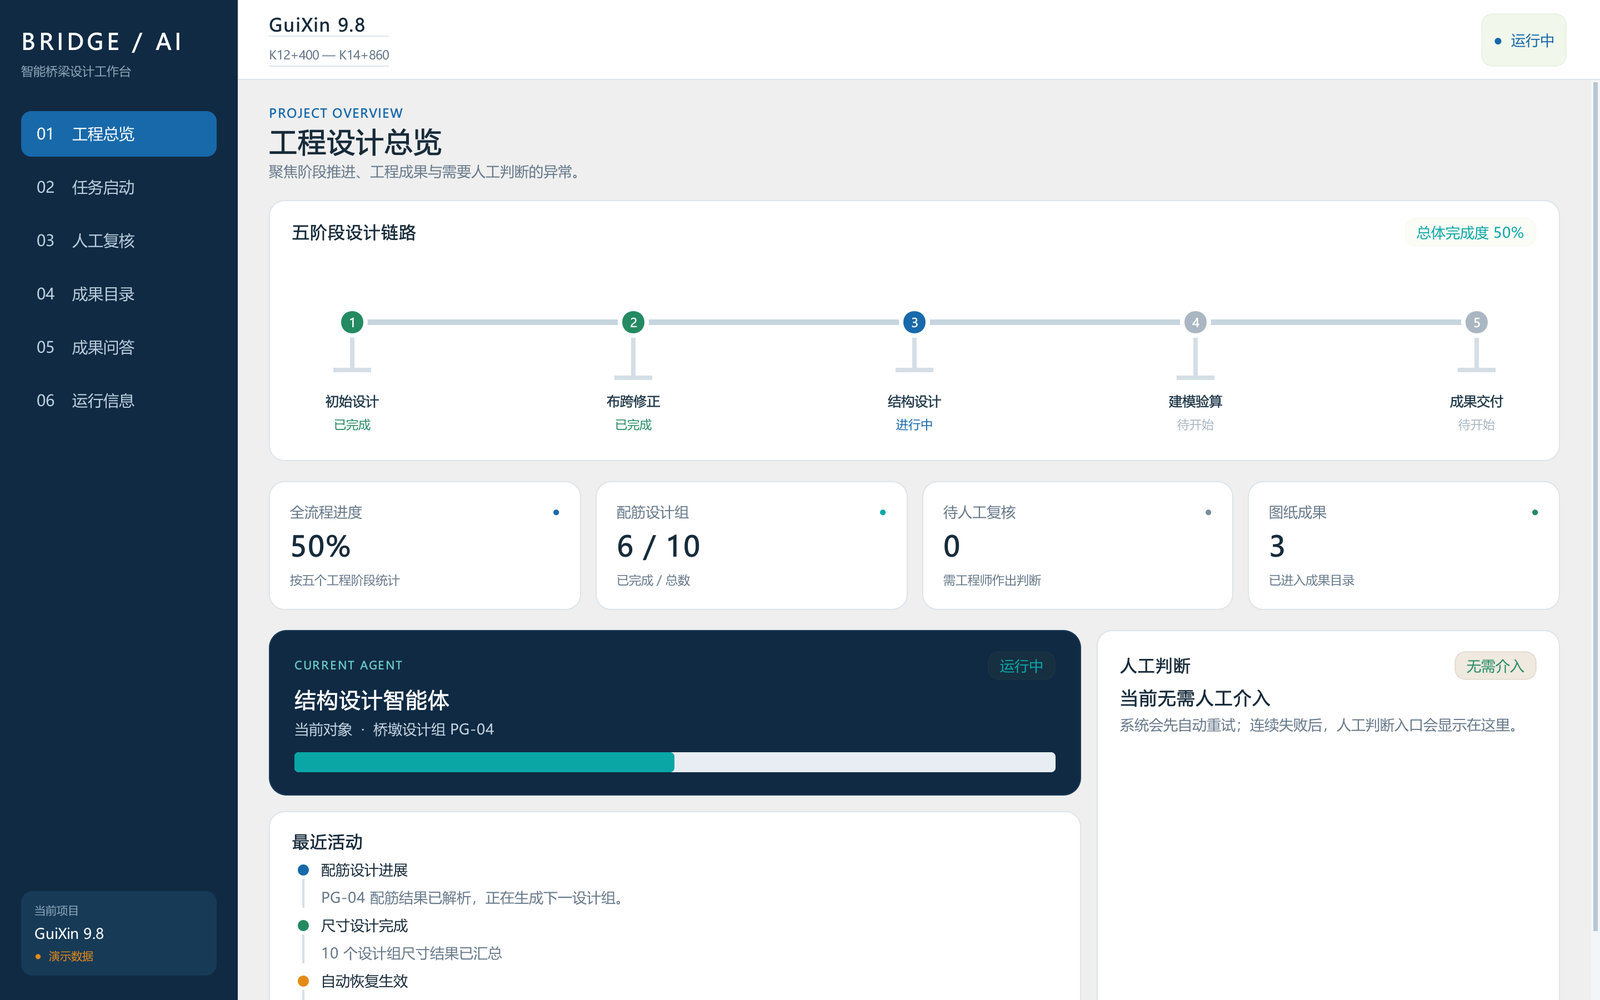
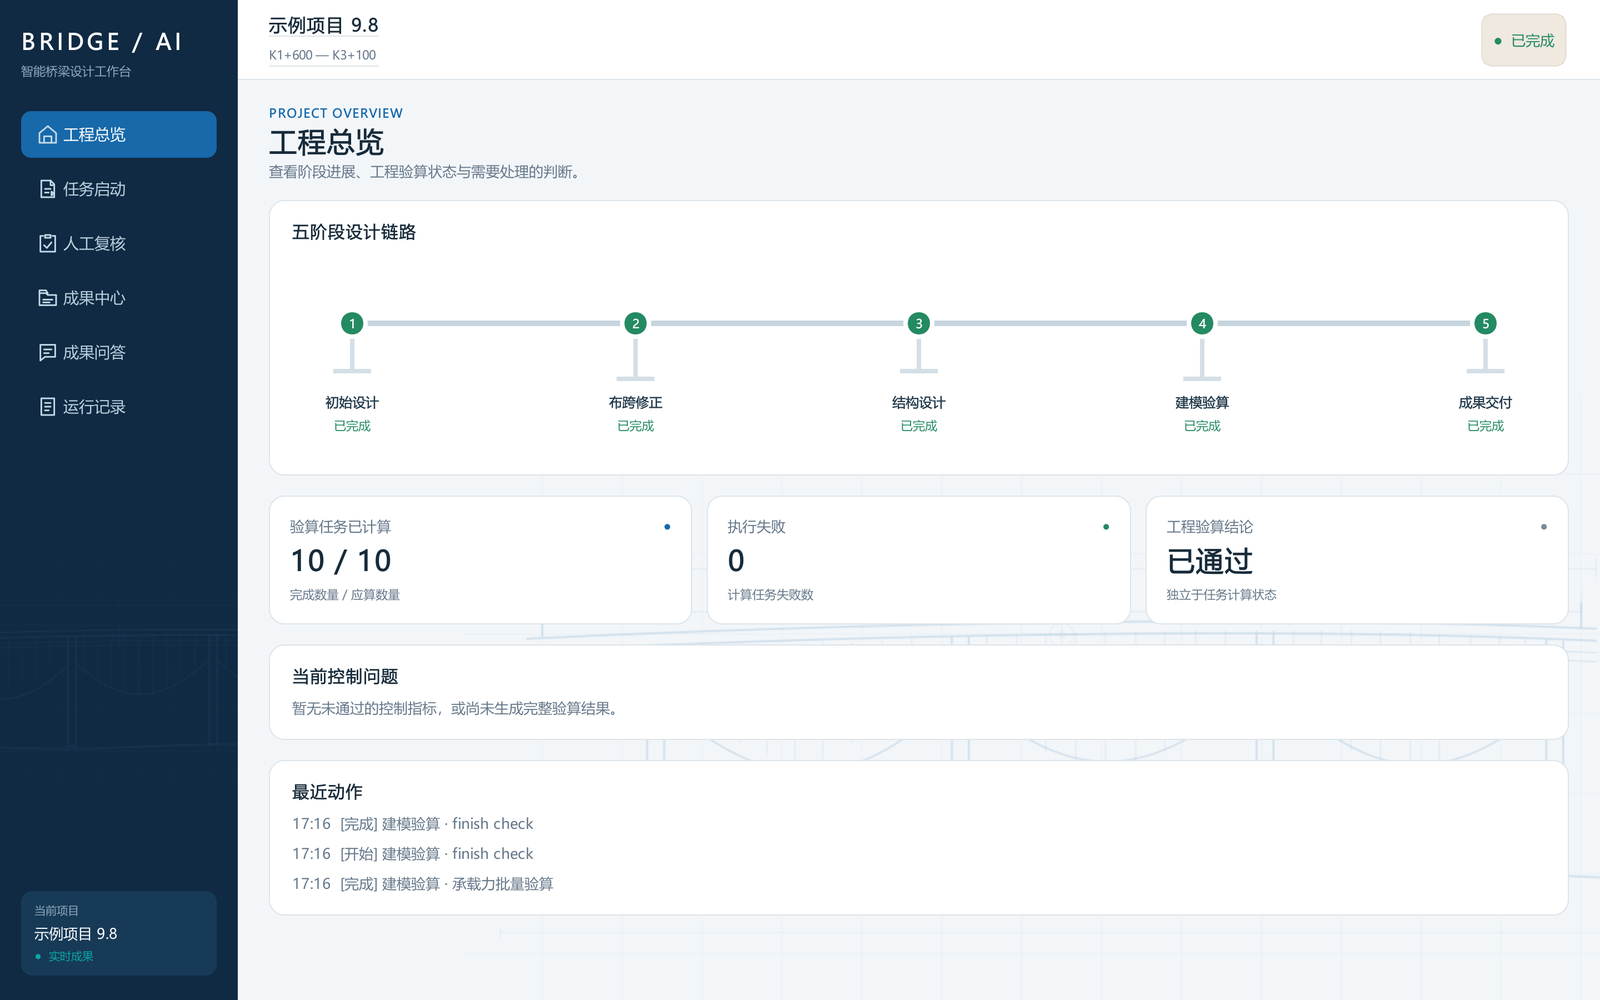
docs: refresh workbench screenshots and add flow/function diagrams

diff --git a/README.md b/README.md
@@ -8,7 +8,7 @@
   <img src="assets/gui/screenshots/01-overview.png" alt="Bridge AI Studio 现代工作台 · 工程总览" width="100%">
 </p>
 
-配套可视化操作界面 `run_graph_v2_gui_modern.py`（PySide6）：工程总览、任务启动、人工复核、成果目录、设计问答与运行信息六页工作台，见 [§11 运行方式](#11-运行方式)。
+配套桥梁设计工作台 `run_bridge_design_workbench.py`（PySide6）：工程总览、任务启动、人工复核、成果中心、成果问答、运行记录六个功能模块，见 [§11 运行方式](#11-运行方式)。
 
 当前推荐运行目标架构：
 
@@ -84,6 +84,10 @@ AgentState reducer + AgentContract + ArtifactRecord
   -> final_output 确定性生成按设计组复用的配筋绘图成果包
   -> DesignReviewAgent 整体评估与后续专业问答（独立只读链）
 ```
+
+上图对应的显式协调图运行流程：
+
+![Graph V2 运行流程](assets/diagrams/graph-v2-flow.png)
 
 调度校验检查阶段注册、前置成果、成果有效性、返修目标、轮次上限、人工复核状态和无依据阶段回跳。每个阶段结束后，协调器读取最新 `StageHandoff` 再决策，专业 Agent 不直接控制顶层路由。
 
@@ -739,47 +743,79 @@ Windows 用户可以通过独立桌面窗口完成任务配置、Graph V2 启动
 
 `run_graph_v2_gui_modern.py` 是推荐的现代桌面入口。它复用 `GraphV2Controller` 和统一成果目录服务，提供工程总览、任务输入与启动、安全终止、断点恢复、人工复核、成果预览、整体评估和多轮专业问答。旧 Tkinter 控制台继续保留，用于兼容和对照。
 
+#### 桥梁设计工作台（Figma v1 对应入口）
+
+`run_bridge_design_workbench.py` 将 Figma 工作台原型 v1 的六个使用者模块落实为桌面界面：工程总览、任务启动、人工复核、成果中心、成果问答、运行记录。人工复核另有风险确认、证据缺失和继续返修三个流程状态。界面沿用现有 Graph V2 控制器、成果目录和问答服务；真实模式只展示当前输出目录可核实的验算与人工决策数据。
+
+```powershell
+python run_bridge_design_workbench.py --output-dir output
+```
+
+启动页默认为任务启动。已有输出目录可用 `--page overview`、`--page results` 或 `--page log` 直接打开对应模块。风险接受入口需要完整承载力验算摘要和两项人工确认；计算完成数量与工程验算结论分开展示。`--screenshot <PNG路径>` 可导出当前页面截图。
+
+#### 功能结构
+
+工作台不按页面堆叠，而按工程判断的组织方式划分六个功能模块，每个节点对应一项可执行能力：
+
+![工作台功能结构图](assets/diagrams/workbench-functions.png)
+
 #### 可视化操作界面演示
 
-控制台按工程视角组织工作流，覆盖从任务输入、阶段推进、人工干预到成果交付与设计问答的完整闭环。以下演示由 `run_graph_v2_gui_modern.py` 逐页导出。
+六个模块的界面与人工复核闭环如下。演示取自一次真实运行成果；项目名与桩号已替换为通用值，“人工复核”一页的复核中断为演示态构造。
 
 **① 工程总览 · Project Overview**
 
-五阶段设计链路一屏总览：初始设计 → 布跨修正 → 结构设计 → 建模验算 → 成果交付的实时完成度、当前活跃智能体、待人工判断数量，以及最近的动作事件流。
+五阶段设计链路的完成度、工程验算状态、当前控制问题与最近阶段动作。
 
 ![工程总览](assets/gui/screenshots/01-overview.png)
 
-**② 任务启动 · New Design Run**
+**② 任务启动 · Start a Run**
 
-面向工程师的极简输入面：只需填写任务描述与原始资料路径，中间成果全部由输出目录自动发现与复用，不必在多级配置之间来回切换。
+填写原始输入、启动前校验、授权模型外发，并可直接安全终止运行中的任务。
 
 ![任务启动](assets/gui/screenshots/02-task.png)
 
-**③ 人工复核中心 · Human in the Loop**
+**③ 人工复核 · Human in the Loop**
 
-自动重试耗尽后由系统主动停驻，把失败对象、运行上下文和候选处置动作一并交给工程师，支持定向重试、带风险接受或终止任务。
+呈现复核原因、轮次与返修方向，并把控制指标与判断依据逐项列出；右侧只显示当前复核节点允许的动作。
 
-![人工复核中心](assets/gui/screenshots/03-review.png)
+![人工复核](assets/gui/screenshots/03-review.png)
 
-**④ 成果目录 · Deliverables**
+**④ 决策确认 · Decision Checkpoint**
 
-按五个工程阶段汇集全部成果，图件在控制台内直接预览并支持缩放平移，数据类成果附带来源路径与诊断摘要，无需切换到资源管理器。
+接受风险前必须核对未通过结论与控制对象，并完成两项人工确认，未通过项仍保留在交付成果中。
 
-![成果目录](assets/gui/screenshots/04-results.png)
+![决策确认](assets/gui/screenshots/04-confirm.png)
 
-**⑤ 成果问答 · Design Review**
+**⑤ 证据阻断 · Blocked Action**
 
-基于工程成果与规范条文证据的多轮专业问答，每条回答显式标注所引用的成果编号与规范公式编号，结论可追溯、可核验。
+承载力证据不完整时，接受风险的动作被直接阻断，只保留继续返修与返回复核。
 
-![成果问答](assets/gui/screenshots/05-qa.png)
+![证据阻断](assets/gui/screenshots/05-missing.png)
 
-**⑥ 运行信息 · Run Information**
+**⑥ 继续返修 · Resume the Design**
 
-当前任务的公开运行摘要；论文展示模式下自动隐去本地敏感路径。
+提交继续返修后展示决策记录、返回阶段、追加轮次与后续路径。
 
-![运行信息](assets/gui/screenshots/06-info.png)
+![继续返修](assets/gui/screenshots/06-rework.png)
 
-> 演示界面使用控制台内置的样例数据（界面左下角已标注）；「成果目录」一页取自一次真实运行，预览内容为系统确定性计算生成的承载力验算成果。
+**⑦ 成果中心 · Deliverables**
+
+按阶段汇集工程成果，图件在窗口内直接预览，并给出交付风险状态。
+
+![成果中心](assets/gui/screenshots/07-results.png)
+
+**⑧ 成果问答 · Design Review**
+
+基于工程成果与规范条文证据的多轮专业问答，每条回答显式标注所引用的成果编号与规范公式编号。
+
+![成果问答](assets/gui/screenshots/08-qa.png)
+
+**⑨ 运行记录 · Run Trace**
+
+汇总本次运行身份、阶段动作与人工复核决定，可一键跳转到成果与风险。
+
+![运行记录](assets/gui/screenshots/09-log.png)
 
 
 读取真实运行成果：
